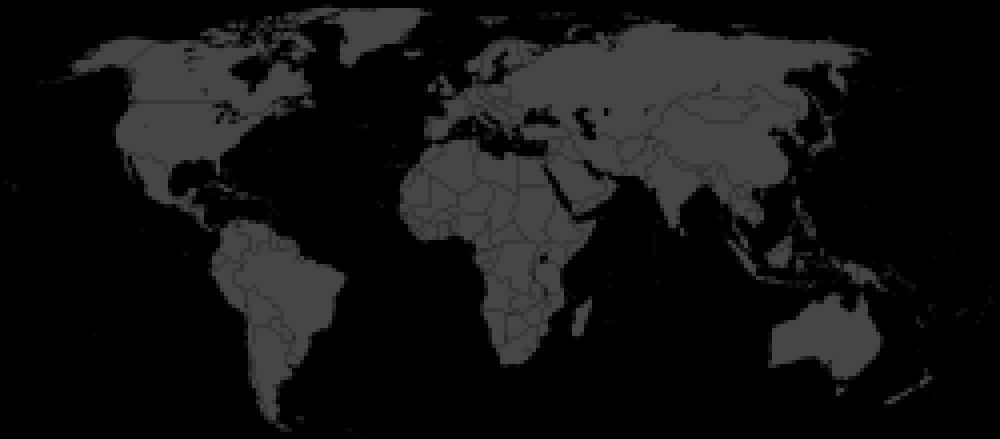
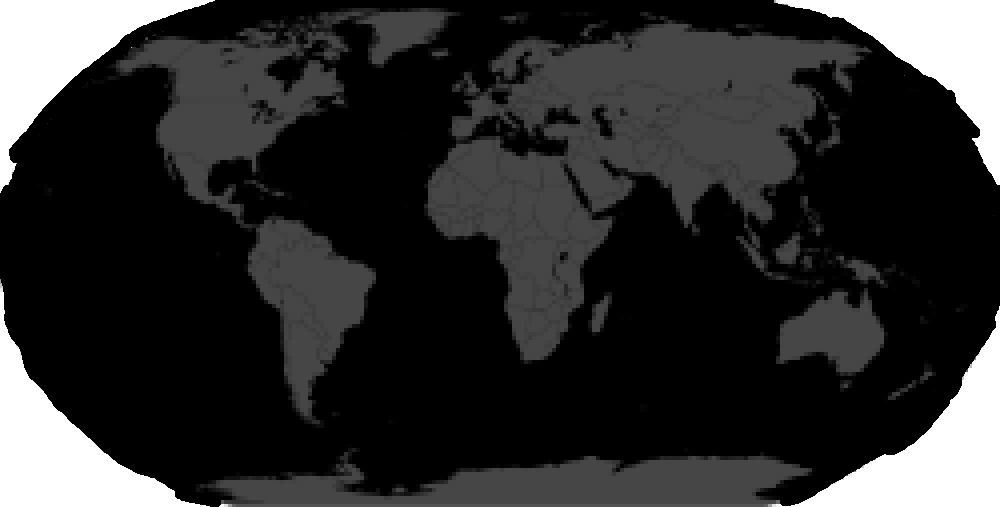
Use full Robinson projection map.

diff --git a/public/rendermap.js b/public/rendermap.js
@@ -1,12 +1,13 @@
 function Renderer(successCallback) {
     var that = this;
     this.width = 1000;
-    this.height = 439;
+    this.height = 507;
 
     this.background = document.body.appendChild(document.createElement("div"));
     this.background.style.textAlign = "center";
     this.background.style.margin = "0 auto";
     this.background.style.width = this.width + "px";
+    this.background.style.height = this.height + "px";
     this.background.style.backgroundImage = "url(pixel_map.png)"
 
     this.canvas = this.background.appendChild(document.createElement("canvas"));

diff --git a/public/index.html b/public/index.html
@@ -24,8 +24,8 @@
 
             function addRandomEmbers() {
                 var randomEmber = function() {
-                    return makeEmber(Math.floor(Math.random() * 1000),
-                        Math.floor(Math.random() * 439), Math.random());
+                    return makeEmber(Math.floor(Math.random() * renderer.width),
+                        Math.floor(Math.random() * renderer.height), Math.random());
                 }
                 for (var i = 0; i < 10; i++) {
                     embers.push(randomEmber());
